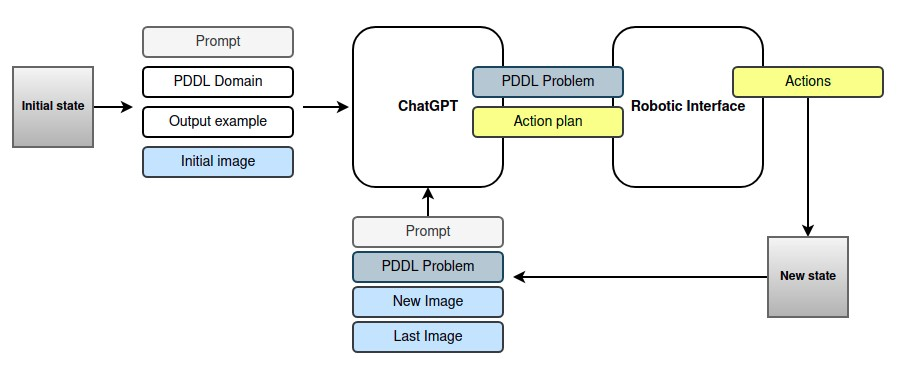
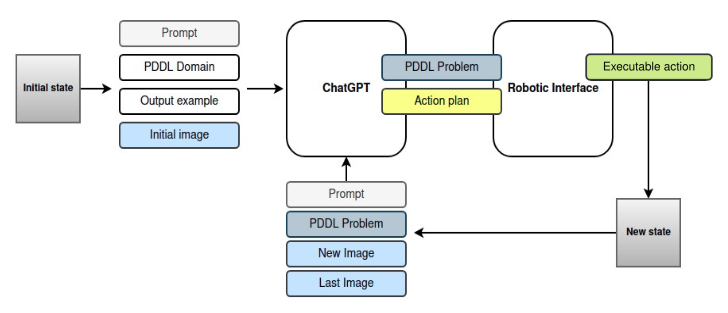
Added slides to solver.

Changed region(s): [[0.0, 0.0575, 0.9973, 0.9489], [0.3929, 0.0575, 0.5742, 0.1438], [0.544, 0.4313, 0.5742, 0.4888]]

diff --git a/1/tasksolver.html b/1/tasksolver.html
@@ -8,10 +8,6 @@
     <title>Task Solver</title>
 
     <style>
-        /* =========================
-   BASE
-   ========================= */
-
         html,
         body {
             margin: 0;
@@ -22,10 +18,7 @@
             display: flex;
         }
 
-        /* =========================
-   SIDEBAR
-   ========================= */
-
+        /* SIDEBAR */
         .sidebar {
             width: 12%;
             min-width: 160px;
@@ -52,10 +45,7 @@
             background-color: #a4acb0;
         }
 
-        /* =========================
-   MAIN CONTENT
-   ========================= */
-
+        /* MAIN */
         .content {
             flex: 1;
             background: #c8d7de;
@@ -64,14 +54,11 @@
             box-sizing: border-box;
         }
 
-        /* =========================
-   CONTENT CARD
-   ========================= */
-
+        /* CARD */
         .contentCard {
             background: white;
             border-radius: 10px;
-            padding: 30px;
+            padding: 25px;
             box-shadow: 0 0 8px rgba(0, 0, 0, 0.15);
         }
 
@@ -86,25 +73,32 @@
             line-height: 1.6;
         }
 
-        .contentCard img {
-            display: block;
-            margin: 30px auto;
-            width: 80%;
-            max-width: 700px;
-            height: auto;
-        }
-
-        .figureCaption {
-            text-align: center;
-            color: #666;
-            font-style: italic;
-            margin-top: -10px;
-        }
-
         /* =========================
-   NEXT BUTTON
-   ========================= */
+           SLIDES SECTION (NEW)
+           ========================= */
+        .slide {
+            background: white;
+            margin-top: 25px;
+            border-radius: 10px;
+            box-shadow: 0 0 6px rgba(0, 0, 0, 0.12);
+            padding: 10px;
+        }
 
+        .slide img {
+            width: 100%;
+            height: auto;
+            display: block;
+            border-radius: 6px;
+        }
+
+        .slideCaption {
+            text-align: center;
+            font-size: 0.9rem;
+            color: #666;
+            margin-top: 8px;
+        }
+
+        /* ARROWS */
         .arrowNav {
             display: flex;
             justify-content: space-between;
@@ -125,15 +119,7 @@
             transform: scale(1.15);
         }
 
-        .arrowDisabled {
-            font-size: 3rem;
-            color: #aaa;
-        }
-
-        /* =========================
-   STEPPER
-   ========================= */
-
+        /* STEPPER */
         .stepper {
             display: flex;
             justify-content: center;
@@ -152,20 +138,14 @@
             font-weight: bold;
         }
 
-        /* =========================
-   FOOTER
-   ========================= */
-
+        /* FOOTER */
         .footer {
             text-align: center;
             margin-top: 30px;
             color: #444;
         }
 
-        /* =========================
-   MOBILE
-   ========================= */
-
+        /* MOBILE */
         @media (max-width: 768px) {
 
             body {
@@ -173,9 +153,7 @@
             }
 
             .sidebar {
-                width: auto;
-                max-width: none;
-                min-width: 0;
+                width: 100%;
                 flex-direction: row;
                 justify-content: center;
                 gap: 8px;
@@ -183,18 +161,13 @@
             }
 
             .sidebar a {
-                flex: 1;
-                margin: 0;
                 font-size: 14px;
                 padding: 8px;
+                margin: 0;
             }
 
             .content {
                 padding: 15px;
-            }
-
-            .contentCard {
-                padding: 20px;
             }
 
             .contentCard h1 {
@@ -204,45 +177,21 @@
             .contentCard p {
                 font-size: 1rem;
             }
-
-            .contentCard img {
-                width: 95%;
-            }
-
-            .pageNavigation {
-                text-align: center;
-            }
-
-            .nextPage {
-                width: 100%;
-                box-sizing: border-box;
-                text-align: center;
-            }
-
-            .stepper {
-                flex-direction: column;
-                align-items: center;
-                gap: 10px;
-            }
         }
     </style>
 </head>
 
 <body>
 
-    <!-- MENU -->
-
+    <!-- SIDEBAR -->
     <div class="sidebar">
-
         <a href="../index.html">Home</a>
         <a href="../presentation.html">Presentation</a>
         <a href="../papers.html">Papers</a>
         <a href="../contact.html">Contact</a>
-
     </div>
 
     <!-- CONTENT -->
-
     <div class="content">
 
         <div class="contentCard">
@@ -250,60 +199,73 @@
             <h1>Task Solver</h1>
 
             <p>
-                Shoebox Tasks are visually structured educational activities
-                designed for individuals with Autism Spectrum Disorder (ASD).
-                Their clear organization supports learning, communication,
-                and the development of cognitive skills.
-            </p>
+                Our system implements a perception–analysis–action loop using a Vision–Language Model (VLM) in Python. 
+                Starting from an image of a Shoebox-Task setup and a general PDDL domain, it interprets the visual scene
+                 and generates a corresponding PDDL problem instance and action plan. 
+                 
+                 </p>
 
             <p>
-                In this project, Shoebox Tasks serve as a testbed for autonomous
-                task solving. Their visual structure enables machine learning
-                methods to detect task components, interpret task goals,
-                and generate action sequences leading to successful task completion.
+                After each action execution, a new image is analyzed to detect changes, update the plan, and revise the PDDL 
+                state accordingly. This iterative loop continues until the task is completed or an invalid state is detected. 
+                The robot can either solve the task autonomously or support a student by guiding task execution through
+                 demonstrations, gestures, voice instructions, and real-time error monitoring.
+            
             </p>
 
-            <img src="./shoeboxtask.jpg" alt="Shoebox Task">
-
-            <div class="figureCaption">
-                Example of a visually structured Shoebox Task.
+            <!-- SLIDES -->
+            <div class="slide">
+                <img src="./slides/slide-13.png">
             </div>
+
+            <div class="slide">
+                <img src="./slides/slide-11.png">
+            </div>
+
+            <div class="slide">
+                <img src="./slides/slide-12.png">
+            </div>
+
+            <div class="slide">
+                <img src="./slides/slide-14.png">
+            </div>
+
+            <div class="slide">
+                <img src="./slides/slide-15.png">
+            </div>
+
+            <div class="slide">
+                <img src="./slides/slide-16.png">
+            </div>
+
+            <div class="slide">
+                <img src="./slides/slide-17.png">
+            </div>
+
 
         </div>
 
-        <!-- NEXT PAGE -->
+        <!-- NAVIGATION (KEEP YOUR 3-PAGE SYSTEM) -->
         <div class="arrowNav">
 
-            <a href="shoeboxtask.html" class="arrowLink">
-                ←
-            </a>
+            <a href="shoeboxtask.html" class="arrowLink">←</a>
 
-            <a href="roboticinterface.html" class="arrowLink">
-                →
-            </a>
+            <a href="roboticinterface.html" class="arrowLink">→</a>
 
         </div>
 
         <!-- STEPPER -->
-
         <div class="stepper">
 
-            <a href="shoeboxtask.html" class="step">
-                ○ Shoebox Tasks
-            </a>
+            <a href="shoeboxtask.html" class="step">○ Shoebox Tasks</a>
 
-            <a href="tasksolver.html" class="step active">
-                ● Task Solver
-            </a>
+            <a href="tasksolver.html" class="step active">● Task Solver</a>
 
-            <a href="roboticinterface.html" class="step">
-                ○ Robotic Interface
-            </a>
+            <a href="roboticinterface.html" class="step">○ Robotic Interface</a>
 
         </div>
 
         <!-- FOOTER -->
-
         <div class="footer">
             Last updated:
             <script>

diff --git a/1/shoeboxtask.html b/1/shoeboxtask.html
@@ -286,9 +286,9 @@
 
             <div class="imageRow">
 
-                <img src="./img1.jpg" alt="Example 1">
-                <img src="./img2.jpg" alt="Example 2">
-                <img src="./img3.jpg" alt="Example 3">
+                <img src="./ST.png" alt="Example 1">
+                <img src="./Nao.png" alt="Example 2">
+                <img src="./ozo-run.png" alt="Example 3">
 
             </div>
 